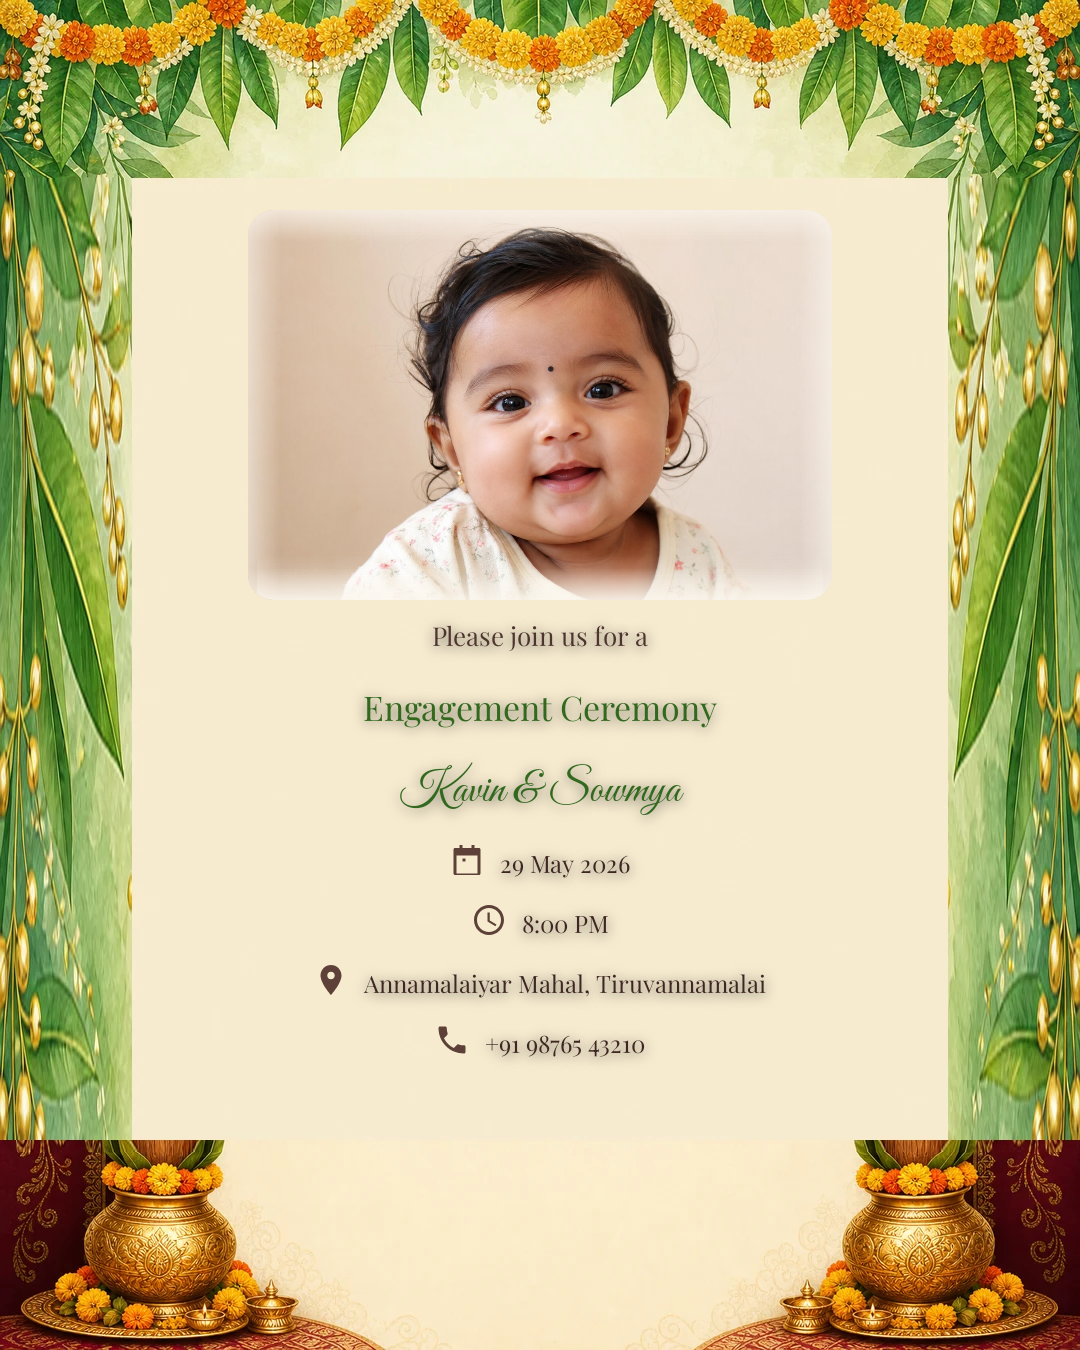
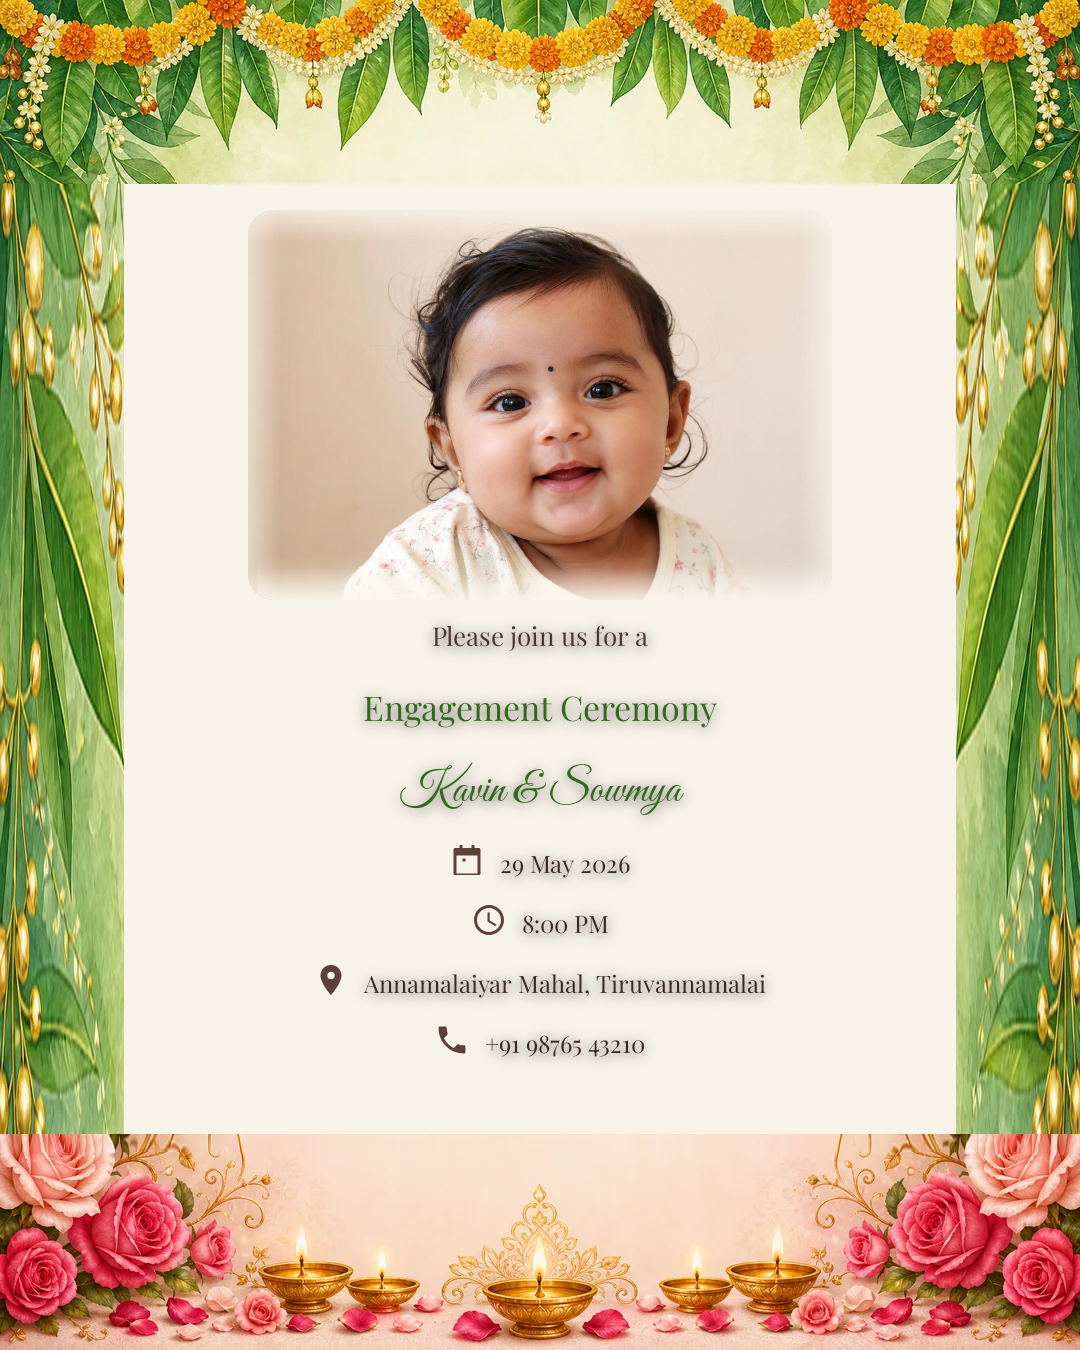
Regenerate engagement_05 and naming_05 with fresh portrait designs
Delete prior _05 source PNGs and WebPs, then rebuild via
generate_new_photo_cards.py v3: mango/tulsi décor from landscape
masters with rose-diya and moon-lotus footers from templates 04.
Remove convert skip for _05, restore standard photoCardTextZone, and
refresh sample exports.

diff --git a/app/src/main/java/com/vaangainvite/core/image/InvitationLayout.kt b/app/src/main/java/com/vaangainvite/core/image/InvitationLayout.kt
@@ -95,20 +95,12 @@ internal object InvitationLayout {
         "engagement_02" to photoCardTextZone,
         "engagement_03" to photoCardTextZone,
         "engagement_04" to photoCardTextZone,
-        // Mango Leaf Gold — kalash sits in footer band only.
-        "engagement_05" to photoCardTextZone.copy(
-            bottom = 1095f,
-            messageBottom = 1055f
-        ),
+        "engagement_05" to photoCardTextZone,
         "naming_01" to photoCardTextZone,
         "naming_02" to photoCardTextZone,
         "naming_03" to photoCardTextZone,
         "naming_04" to photoCardTextZone,
-        "naming_05" to photoCardTextZone.copy(
-            bottom = 1100f,
-            messageBottom = 1060f,
-            photoTextGap = 16f
-        ),
+        "naming_05" to photoCardTextZone,
         "babyshower_01" to photoCardTextZone,
         "babyshower_02" to photoCardTextZone,
         "babyshower_03" to photoCardTextZone,

diff --git a/app/src/main/java/com/vaangainvite/data/repository/TemplateRepository.kt b/app/src/main/java/com/vaangainvite/data/repository/TemplateRepository.kt
@@ -265,7 +265,7 @@ class TemplateRepository {
             id = "engagement_05",
             categoryId = "engagement",
             title = "Mango Leaf Gold",
-            description = "Traditional — mango leaves, marigold top, kalash.",
+            description = "Mango leaves & marigold toran — rose diya temple footer.",
             resId = R.drawable.bg_engagement_05,
             primaryColor = 0xFF33691E.toInt()
         ),
@@ -307,7 +307,7 @@ class TemplateRepository {
             id = "naming_05",
             categoryId = "naming",
             title = "Tulsi Paladai Gold",
-            description = "Sacred green — tulsi toran, kalash & golden footprints.",
+            description = "Tulsi toran & sage sides — moon garland & lotus footer.",
             resId = R.drawable.bg_naming_05,
             primaryColor = 0xFF2E7D32.toInt()
         ),

diff --git a/tools/generate_new_photo_cards.py b/tools/generate_new_photo_cards.py
@@ -113,40 +113,40 @@ def prepare_naming_05_landscape(im: Image.Image) -> Image.Image:
 
 
 def build_engagement_05() -> Image.Image:
-    """Mango Leaf Gold — maroon-royal layout (engagement_02) + mango/marigold art."""
-    ref = Image.open(SRC / "engagement_02_source.png")
+    """Mango Leaf Gold v3 — mango/marigold sides & toran, rose-diya temple footer."""
+    ref = Image.open(SRC / "engagement_04_source.png")
     land = prepare_engagement_05_landscape(
         Image.open(SRC / "engagement_05_source_landscape_backup.png").convert("RGB")
     )
     return build_fresh_card(
         land,
         ref,
-        top_h=178,
-        bottom_h=210,
-        side_w=132,
+        top_h=184,
+        bottom_h=216,
+        side_w=124,
         side_end_ratio=0.52,
         bottom_mode="reference",
-        top_crop_y=0,
+        top_crop_y=4,
+        cream=(252, 246, 236),
     )
 
 
 def build_naming_05() -> Image.Image:
-    """Tulsi Paladai — moon-lotus layout (naming_04) + tulsi/sage ritual art."""
+    """Tulsi Paladai v3 — tulsi sage sides & toran, moon-lotus celestial footer."""
     ref = Image.open(SRC / "naming_04_source.png")
     land = prepare_naming_05_landscape(
         Image.open(SRC / "naming_05_source_landscape_backup.png").convert("RGB")
     )
-    out = build_fresh_card(
+    return build_fresh_card(
         land,
         ref,
-        top_h=118,
-        bottom_h=192,
-        side_w=112,
+        top_h=128,
+        bottom_h=204,
+        side_w=108,
         side_end_ratio=0.52,
-        bottom_mode="landscape",
-        cream=(252, 248, 240),
+        bottom_mode="reference",
+        cream=(252, 250, 244),
     )
-    return out
 
 
 def build_naming_01() -> Image.Image:
@@ -174,7 +174,6 @@ def main() -> int:
     jobs = [
         ("engagement_05", build_engagement_05),
         ("naming_05", build_naming_05),
-        ("naming_01", build_naming_01),
     ]
     for stem, fn in jobs:
         out = fn()

diff --git a/tools/convert_photo_backgrounds.py b/tools/convert_photo_backgrounds.py
@@ -80,8 +80,6 @@ def main() -> int:
     for src in sorted(args.source_dir.glob(f"{args.prefix}_*_source.png")):
         if "_landscape_backup" in src.name:
             continue
-        if args.prefix in ("engagement", "naming") and src.name.endswith("_05_source.png"):
-            continue
         stem = src.stem.replace("_source", "")
         dest = args.dest_dir / f"bg_{stem}.webp"
         convert_one(src, dest, args.quality, strip_text=False)
